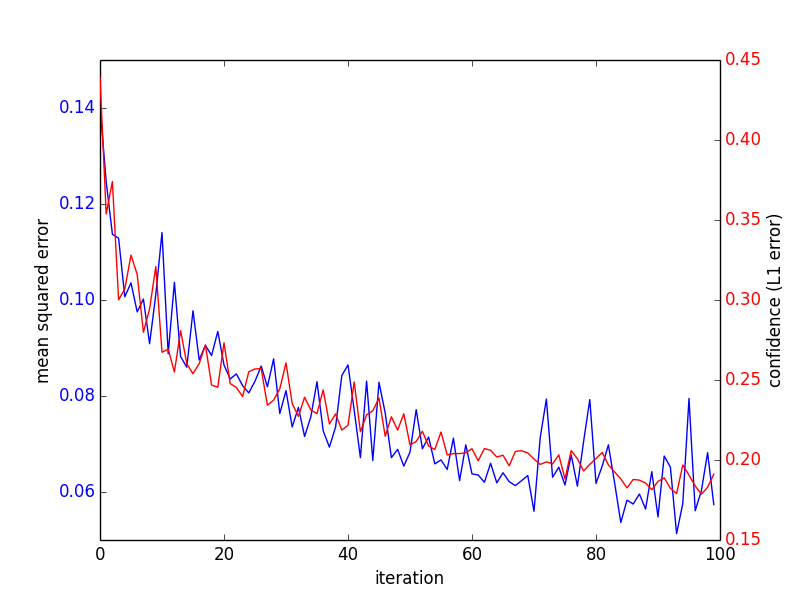
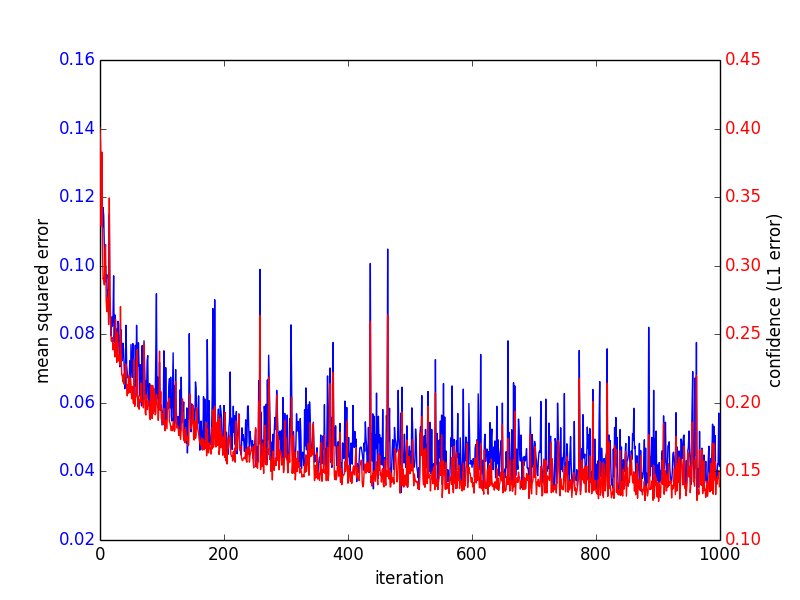
Newest version of BioAnn

diff --git a/BioANN.py b/BioANN.py
@@ -17,6 +17,8 @@ import json
 from scipy import array, where, argmax
 import matplotlib.pyplot as plt
 import re
+from graph_tool.all import *
+from math import log10
 
 #Default parameters
 micro_dim = 24 #the number of input nodes
@@ -34,7 +36,7 @@ max_iterations = 1000000 #maximum number of iterations
 num_epochs = 5 #number of ephochs at every iteration
 snapshot = 10 #when to snapshot the ANN
 
-shapes = [(24, 12), (12, 3)]
+shapes = [(24, 48), (48, 3)]
 
 def load_params():
 	with open('params', 'r') as f_in:
@@ -83,7 +85,7 @@ def train(filename, start=''):
 	
 	#build network
 	if start == '':
-		ann = buildNetwork(tr.indim, 12, tr.outdim, hiddenclass=SigmoidLayer, recurrent=False, outclass=SoftmaxLayer, bias=inc_bias)
+		ann = buildNetwork(tr.indim, 48, 3, 48, tr.outdim, hiddenclass=SigmoidLayer, recurrent=False, outclass=SoftmaxLayer, bias=inc_bias)
 		iteration = 0
 	else:
 		ann = NetworkReader.readFrom(start)
@@ -97,12 +99,12 @@ def train(filename, start=''):
 	#training 
 	trainer = BackpropTrainer(ann,	dataset=tr, momentum=momentum, weightdecay=weight_decay, verbose=True)
 	done = False
-	errors, confidences = [], []
+	errors, variations = [], []
 	
 	while(not done):
 		trainer.trainEpochs(num_epochs)
 		
-		nodes = [[], [], []]
+		"""nodes = [[], [], []]
 		for c in ann.connections:
 			index = -1
 			if c._name == 'in':
@@ -112,25 +114,25 @@ def train(filename, start=''):
 			elif c._name == 'out':
 				index = 2
 			if index >= 0:
-				nodes[index] = c.inputbuffer
+				nodes[index] = c.inputbuffer.tolist()"""
 		
-		matrices = [[], []]
+		"""matrices = [[], []]
 		for mod in ann.modules:
 			for conn in ann.connections[mod]:
 				if mod.name == 'in' and conn.outmod.name == 'hidden0':
-					matrices[0] = array(conn.params).reshape(shapes[0])
+					matrices[0] = array(conn.params).reshape(shapes[0]).tolist()
 				elif mod.name == 'hidden0' and conn.outmod.name == 'out':
-					matrices[1] = array(conn.params).reshape(shapes[1])
+					matrices[1] = array(conn.params).reshape(shapes[1]).tolist()"""
 		
-		f, axs = plt.subplots(1, len(matrices), sharey=True)
+		"""f, axs = plt.subplots(1, len(matrices), sharey=True)
 		for i in range(len(matrices)):
 			axs[i].imshow(matrices[i], interpolation='none', shape=(24, 12))
-		f.savefig('matrices-%d.png' % iteration)
-		exit()
+		f.savefig('matrices-%d.png' % iteration)"""
+		#graph_visualizer(nodes, matrices, iteration)
 		
 		errors.append(calcError(trainer))
-		confidences.append(calcConfidence(trainer))
-		print 'iter %d, error %f, confidence %f' % (iteration, errors[-1], confidences[-1])
+		variations.append(calcVariation(trainer))
+		print 'iter %d, error %f, variation %f' % (iteration, errors[-1], variations[-1])
 
 		if iteration >= max_iterations - 1:
 			done = True
@@ -144,22 +146,57 @@ def train(filename, start=''):
 		iteration = iteration + 1
 	
 	#testing
-	print 'error %f, confidence %f' % (calcError(trainer, dataset=val), calcConfidence(trainer, dataset=val))
+	val_error, val_variation = calcError(trainer, dataset=val), calcVariation(trainer, dataset=val)
+	print 'error %f, variation %f' % (val_error, val_variation)
 	
 	#plotting
 	iterations = range(max_iterations)
 	fig, ax1 = plt.subplots()
-	ax1.plot(iterations, errors, 'b-')
+	ax1.plot(iterations, map(log10, errors), 'b-')
 	ax1.set_xlabel('iteration')
 	ax1.set_ylabel('mean squared error')
 	for tick in ax1.get_yticklabels():
 		tick.set_color('b')
+	ax1.set_title('error for validation dataset: %f, variation for validation dataset: %f' % (val_error, val_variation))
 	ax2 = ax1.twinx()
-	ax2.plot(iterations, confidences, 'r-')
-	ax2.set_ylabel('confidence (L1 error)')
+	ax2.plot(iterations, map(log10, variations), 'r-')
+	ax2.set_ylabel('variation (L1 error)')
 	for tick in ax2.get_yticklabels():
 		tick.set_color('r')
-	plt.savefig('error-5layer-24.png')
+	plt.savefig('error-5layer-48-3-48.png')
+
+def graph_visualizer(vertices, edges, iteration):
+	g = Graph(directed=False)
+	vpos = g.new_vertex_property("vector<float>")
+	vsize = g.new_vertex_property("float")
+	vcolor = g.new_vertex_property("vector<float>")
+	ecolor = g.new_edge_property("vector<float>")
+	ewidth = g.new_edge_property("float")
+
+	layers_vertices = []
+	for i in range(len(vertices)):
+		layer = vertices[i][0]
+		layer_vertices = []
+		offset = len(layer) / 2.0
+		for j in range(len(layer)):
+			vertex = g.add_vertex()
+			layer_vertices.append(vertex)
+			vpos[vertex] = [i * 10, j - offset]
+			vsize[vertex] = layer[j] * 3
+			vcolor[vertex] = [0, 105/255.0, 62/255.0, 1]
+		layers_vertices.append(layer_vertices)
+
+	for i in range(len(edges)):
+		matrix = edges[i]
+		for j in range(len(matrix)):
+			vector = matrix[j]
+			for k in range(len(vector)):
+				edge = g.add_edge(layers_vertices[i][j], layers_vertices[i+1][k])
+				shade = 1 - vector[k]
+				ecolor[edge] = [shade, shade, shade, 1]
+				ewidth[edge] = 2
+
+	graph_draw(g, vpos, vertex_size=vsize, vertex_fill_color=vcolor, edge_color=ecolor, edge_pen_width=ewidth, bg_color=[1,1,1,1], output_size=(800, 800), output='graph-%d.png' % iteration)
 
 def calcError(trainer, dataset=None):
     if dataset == None:
@@ -175,7 +212,7 @@ def calcError(trainer, dataset=None):
             targ.append(argmax(target))
     return percentError(out, targ) / 100
 
-def calcConfidence(trainer, dataset=None):
+def calcVariation(trainer, dataset=None):
     if dataset == None:
         dataset = trainer.ds
     dataset.reset()
